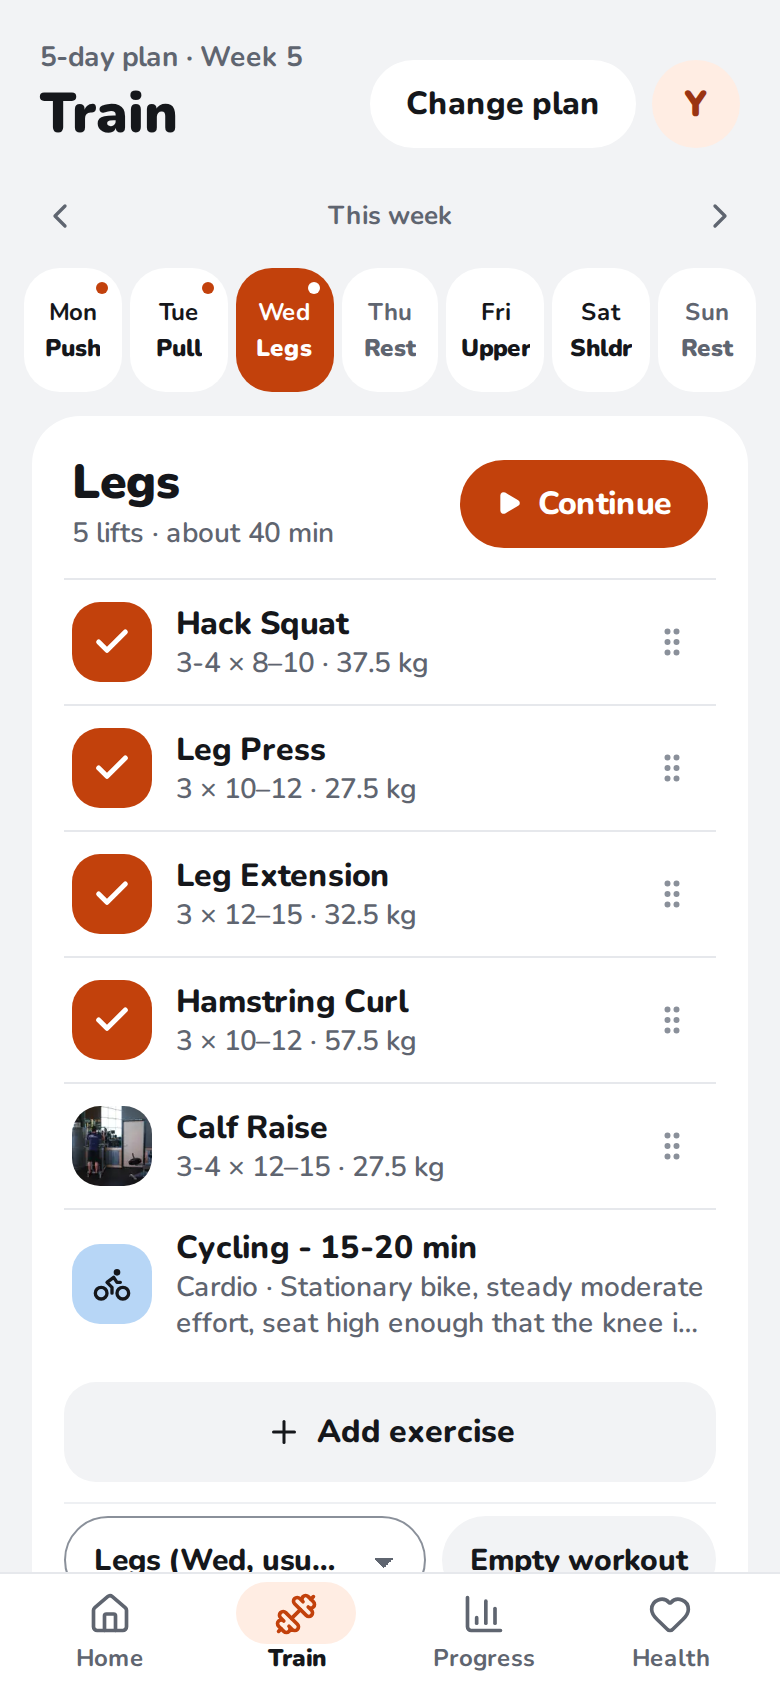
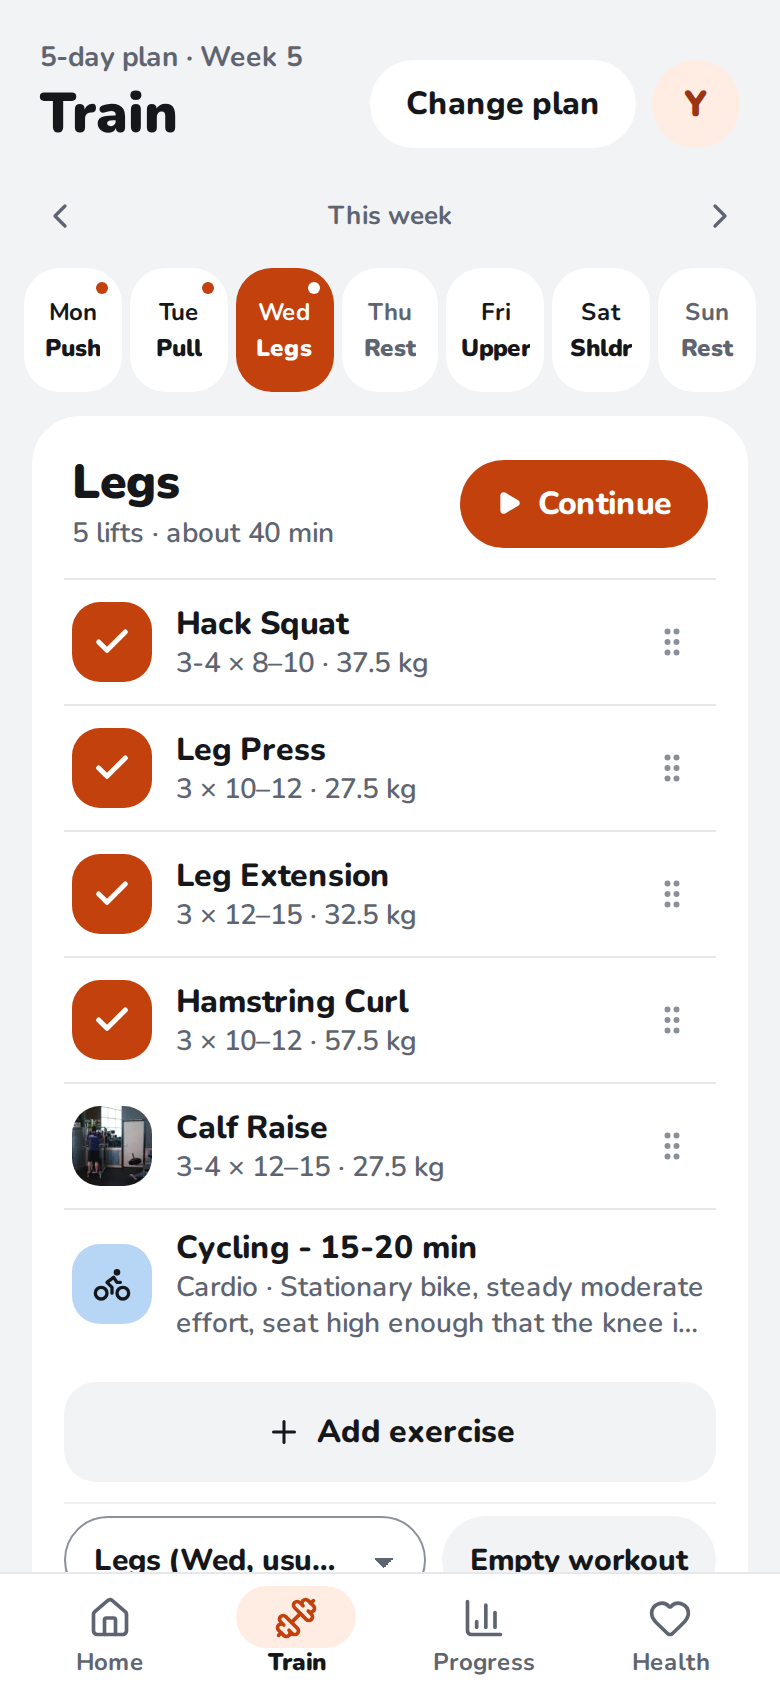
Tab bar: tabs centred in it
6px above the tabs and 6px below (or the phone's own inset), where it had 4px
above and 8px below, and the tabs centred in their row. A layout check keeps the
gaps above and below within 2px.

Claude-Session: https://claude.ai/code/session_01W3N7J58zfpKW6Nw14M15Sd

diff --git a/src/styles/shell.css b/src/styles/shell.css
@@ -8,10 +8,10 @@
   --sar:var(--safe-area-inset-right,env(safe-area-inset-right,0px));
   --gut-l:max(var(--space-4),var(--sal));
   --gut-r:max(var(--space-4),var(--sar));
-  /* The tab bar: --tabbar-height (84px) is the board's, on an iPhone, with its 34px home indicator in it. Here it's
-     the 50px of tabs plus the phone's own inset at the bottom, or 8px with none: no room kept for an indicator that
-     isn't there (an Android phone, a browser), and just the board's 84px on an iPhone. */
-  --tabbar:calc(var(--tabbar-height) - 34px + max(8px,var(--sab)));
+  /* The tab bar: --tabbar-height (84px) is the board's, on an iPhone, with its home indicator in it. Here it's the
+     tabs (46px) with 6px above them and 6px below, or the phone's own inset below when it has one: centred on a
+     phone with no inset, above the gesture bar on one with, and no room kept for an indicator that isn't there. */
+  --tabbar:calc(var(--tabbar-height) - 32px + max(6px,var(--sab)));
   scroll-padding-top:calc(var(--sat) + 16px + var(--bars-h,0px));
 }
 
@@ -37,9 +37,9 @@
 /* the bottom tab bar: 84px with the home-indicator inset, surface with a line-strong top edge. The current tab gets a
    brand-tint pill behind its icon and a 900 label. */
 .wrap[data-tabs]{padding-bottom:var(--tabbar)}
-.tabbar{position:fixed;z-index:10;inset:auto 0 0;height:var(--tabbar);padding:4px max(8px,var(--sar)) max(8px,var(--sab)) max(8px,var(--sal));background:var(--surface);border-top:1px solid var(--line-strong);display:flex;justify-content:center}
+.tabbar{position:fixed;z-index:10;inset:auto 0 0;height:var(--tabbar);padding:6px max(8px,var(--sar)) max(6px,var(--sab)) max(8px,var(--sal));background:var(--surface);border-top:1px solid var(--line-strong);display:flex;justify-content:center}
 .tabbar-in{flex:1 1 auto;max-width:560px;display:grid;grid-template-columns:repeat(4,minmax(0,1fr))}
-.tab{display:flex;flex-direction:column;align-items:center;justify-content:flex-start;gap:1px;min-height:var(--touch-min);color:var(--ink-muted);font:var(--type-micro);line-height:13px;text-decoration:none;-webkit-tap-highlight-color:transparent}
+.tab{display:flex;flex-direction:column;align-items:center;justify-content:center;gap:1px;min-height:var(--touch-min);color:var(--ink-muted);font:var(--type-micro);line-height:13px;text-decoration:none;-webkit-tap-highlight-color:transparent}
 .tab-pill{display:grid;place-items:center;width:60px;height:32px;border-radius:16px}
 .tab[aria-current="page"]{color:var(--ink);font-weight:900}
 .tab[aria-current="page"] .tab-pill{background:var(--brand-tint);color:var(--brand-text)}
